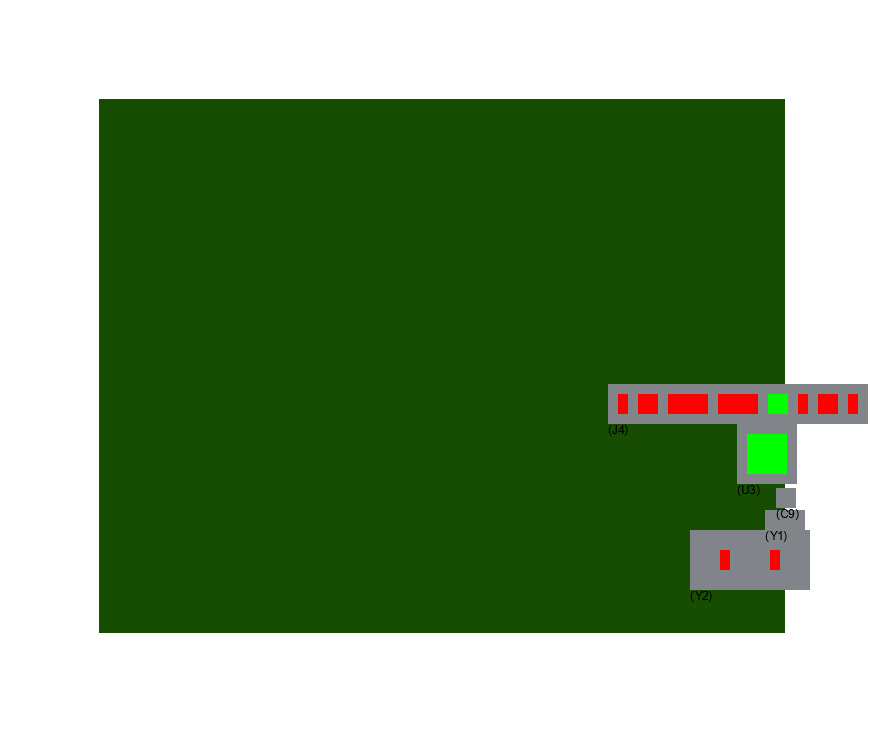
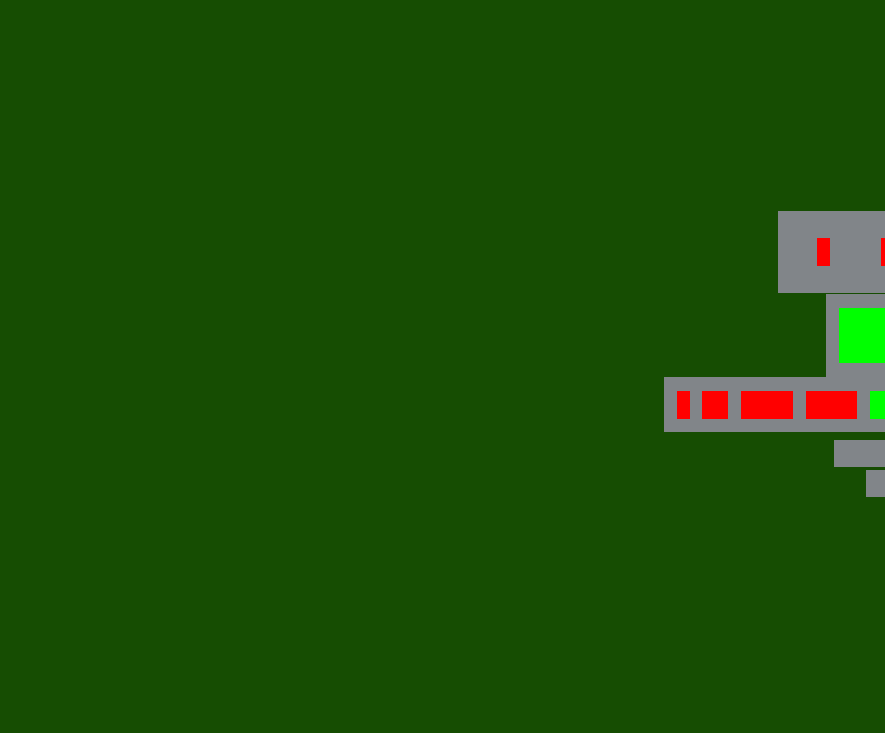
no warnings!

diff --git a/pcb-layout/src/main.rs b/pcb-layout/src/main.rs
@@ -1,5 +1,5 @@
 mod plcmnt;
-use plcmnt::{hpwl, is_valid, placement_area, Bbox, Component, Pin, Placement};
+use plcmnt::{hpwl, is_valid, placement_area, Bbox, Component, Placement};
 mod kicad_parse;
 use colored::Colorize;
 use kicad_parse::parse_file;
@@ -7,6 +7,8 @@ use plotters::coord::types::RangedCoordf64;
 use plotters::prelude::*;
 use rand::prelude::*;
 use std::time::Instant;
+use std::collections::BTreeMap;
+
 fn random_rotation() -> i32 {
     // Get an RNG:
     let mut rng = rand::rng();
@@ -16,7 +18,7 @@ fn random_rotation() -> i32 {
 }
 struct Individual {
     comp_list: Vec<Component>,
-    pl_area: Bbox,
+    pl_area: Bbox,  
 }
 
 impl Individual {
@@ -26,7 +28,7 @@ impl Individual {
             pl_area: pl.placement_area,
         }
     }
-    fn plot(&self, output_path: &str) {
+    fn plot(&self, output_path: &str, net_map: &BTreeMap<i32, String> ) {
         let padding = 10.0;
         let scale = 10.0;
 
@@ -39,89 +41,26 @@ impl Individual {
         )
         .into_drawing_area();
         let backend = backend.apply_coord_spec(Cartesian2d::<RangedCoordf64, RangedCoordf64>::new(
-            0f64..pl_width,
-            0f64..pl_height,
+            0f64..self.pl_area.get_width_fl(),
+            0f64..self.pl_area.get_height_fl(),
             (0..pl_width.floor() as i32, 0..pl_height.round() as i32),
         ));
         let _ = backend.fill(&WHITE);
-        let get_rect = |comp: &Component| {
-            //let x =
-            let ul: (f64, f64) = (
-                (comp.bbox.x1 + padding) * scale,
-                (comp.bbox.y2 + padding) * scale,
-            );
-            let br: (f64, f64) = (
-                (comp.bbox.x2 + padding) * scale,
-                (comp.bbox.y1 + padding) * scale,
-            );
-            
-            Rectangle::new(
-                [ul, br],
-                ShapeStyle::from(&RGBColor(129, 133, 137)).filled(),
-            )
-            
-        };
-        let get_pin_rect = |comp: &Pin| {
-            //let x =
-            let ul: (f64, f64) = (
-                (comp.bbox.x1 + padding) * scale,
-                (comp.bbox.y2 + padding) * scale,
-            );
-            let br: (f64, f64) = (
-                (comp.bbox.x2 + padding) * scale,
-                (comp.bbox.y1 + padding) * scale,
-            );
-            
-            if comp.net == 11 {
-                Rectangle::new([ul, br], ShapeStyle::from(&GREEN).filled())
-            } else {
-                Rectangle::new([ul, br], ShapeStyle::from(&RED).filled())
-            }
-            
-        };
-        let label_pin = |comp: &Pin| {
-            let ul: (f64, f64) = (
-                (comp.bbox.x1 + padding) * scale,
-                (comp.bbox.y2 + padding) * scale,
-            );
-            Text::new(
-                format!("({})", comp.refdes),
-                ul,
-                ("sans-serif", 15.0).into_font(),
-            )
-        };
-        let label_comp = |comp: &Component| {
-            let ul: (f64, f64) = (
-                (comp.bbox.x1 + padding) * scale,
-                (comp.bbox.y2 + padding) * scale,
-            );
-            Text::new(
-                format!("({})", comp.refdes),
-                ul,
-                ("sans-serif", 15.0).into_font(),
-            )
-        };
-        let plot_pcb = |area: &Bbox| {
-            let ul: (f64, f64) = (
-                (area.x1 + padding) * scale,
-                (area.y2 + padding) * scale,
-            );
-            let br: (f64, f64) = (
-                (area.x2 + padding) * scale,
-                (area.y1 + padding) * scale,
-            );
-            //let ee: EmptyElement<(f64, f64), _> = EmptyElement::at(ul) ;
-    Rectangle::new([ul, br], ShapeStyle::from(&RGBColor(22, 77, 2)).filled())
-
-        };
+        
         //plot pcb
-        let _ = backend.draw(&plot_pcb(&self.pl_area));
+        let _ = backend.draw(&self.pl_area.plot(&RGBColor(22, 77, 2)));
         
         for i in &self.comp_list {
-            let _ =  backend.draw(&label_comp(i));
-            let _ = backend.draw(&get_rect(i));
+            //let _ =  backend.draw(&label_comp(i));
+            let _ = backend.draw(&i.bbox.plot(&RGBColor(129, 133, 137)));
             for p in &i.pins {
-                let _ = backend.draw(&get_pin_rect(p));
+                let net_name = net_map.get(&p.net).unwrap();
+                if net_name.to_lowercase() =="gnd"{
+                    let _ = backend.draw(&p.bbox.plot(&GREEN));
+                }else{
+                    let _ = backend.draw(&p.bbox.plot(&RED));
+                    
+                }
                 //backend.draw(&label_pin(p));
             }
         }
@@ -356,7 +295,7 @@ fn tester(pl:Placement){
     
     let pl_2 = pl.clone();
     let  id2 = Individual::new(pl_2);
-    id2.plot("0.png");
+    id2.plot("0.png", &pl.net_map);
     let gen_mult = 1;
     let test_cases: Vec<(usize, i32)> = vec![(10, 10000 * gen_mult ), (20, 5000 * gen_mult), (50,2000 * gen_mult), (100,1000 * gen_mult), (200, 500 * gen_mult), (500,200 * gen_mult)];
     for i in test_cases{
@@ -376,7 +315,7 @@ fn tester(pl:Placement){
         // let backend = SVGBackend::new("output.svg", (800, 600));
         //backend.draw_rect((50, 50), (200, 150), &RED, true)?;
         let id = &mut population[0];
-        id.plot("0.png");
+        id.plot("0.png", &pl.net_map);
         println!("{}", format!("+++++++Test (Population Size: {} , Generations {}) +++++++", pop_size, i.1).green());
         println!("Original Score: {}", id.score());
         let now = Instant::now();
@@ -407,7 +346,7 @@ fn tester(pl:Placement){
         let id = &mut population[0];
         println!("New Score: {}", id.score());
 
-        id.plot(&format!("test-{}x{}.png", pop_size, i.1));
+        id.plot(&format!("test-{}x{}.png", pop_size, i.1), &pl.net_map);
         let elapsed_time = now.elapsed();
         println!("Test took {}.{} seconds.",elapsed_time.as_secs(), elapsed_time.subsec_millis());
         println!("![{}]({})",&format!("test-{}x{}.png", pop_size, i.1),&format!("test-{}x{}.png", pop_size, i.1) );
@@ -422,11 +361,17 @@ fn main() {
     pl.components.truncate(5);
     let mut pl2 = Placement{
         placement_area: pl.placement_area.clone(),
-        components: pl.components.clone()
+        components: pl.components.clone(),
+        net_map:pl.net_map.clone()
     };
     pl2.shift_placement(0.0, 0.0);
     //println!("{:?}", pl2);
-    tester(pl2);
-    //id.mutate();
-    //id.plot("tester.png");
+    let test = true;
+    if test{
+        tester(pl2);
+    }else{
+        let mut id = Individual::new(pl2);
+        id.mutate();
+        id.plot("tester.png", &pl.net_map);
+    }
 }

diff --git a/pcb-layout/src/kicad_parse.rs b/pcb-layout/src/kicad_parse.rs
@@ -1,8 +1,5 @@
 use crate::plcmnt;
-use colored::Colorize;
 use plcmnt::{Bbox, Component, Pin, Placement};
-use plotters::prelude::*;
-use rand::prelude::*;
 use std::collections::BTreeMap;
 
 use std::fs;
@@ -22,9 +19,9 @@ fn parse_kicad_line_to_floats(passed_str: &str) -> Option<(f64, f64)> {
 }
 pub fn parse_file() -> Placement {
     // --snip--
-    let file_path = "..\\demo\\demo.kicad_pcb";
-    let file_path = "..\\demo\\layout1.kicad_pcb";
-    let file_path = "..\\BeagleBone_Black.unrouted.kicad_pcb";
+    //let file_path = "..\\demo\\demo.kicad_pcb";
+    //let file_path = "..\\demo\\layout1.kicad_pcb";
+    //let file_path = "..\\BeagleBone_Black.unrouted.kicad_pcb";
     let file_path = "..\\arduino_kicad\\Arduino UNO.kicad_pcb";
     println!("In file {file_path}");
 
@@ -69,8 +66,8 @@ pub fn parse_file() -> Placement {
             net_map.insert(net_idx, net_name);
         }
         if line.starts_with("\t(footprint ") {
-            line = content_iter.next().unwrap();
-            line = content_iter.next().unwrap();
+            let _ = content_iter.next().unwrap();
+            let _ = content_iter.next().unwrap();
             let x_y_str = content_iter.next().unwrap().trim_end().replace(")", "");
             let x_y_vec: Vec<&str> = x_y_str.split(" ").collect();
             //println!("{:?}", x_y_vec);
@@ -151,7 +148,7 @@ pub fn parse_file() -> Placement {
             if !xs.is_empty() {
                 xs.sort_by(|a, b| a.partial_cmp(b).unwrap());
                 ys.sort_by(|a, b| a.partial_cmp(b).unwrap());
-                let mut comp_bbox = Bbox::new(xs[0], xs[xs.len() - 1], ys[0], ys[ys.len() - 1]);
+                let  comp_bbox = Bbox::new(xs[0], xs[xs.len() - 1], ys[0], ys[ys.len() - 1]);
                 let mut pin_vec: Vec<Pin> = Vec::new();
                 
                 //outer pin loop
@@ -270,7 +267,8 @@ pub fn parse_file() -> Placement {
 
     Placement {
         components: comp_vec,
-        placement_area: pl_area
+        placement_area: pl_area,
+        net_map:net_map
     }
     //println!("{:?}", net_map);
 }

diff --git a/pcb-layout/src/plcmnt.rs b/pcb-layout/src/plcmnt.rs
@@ -45,8 +45,18 @@ impl Bbox {
     pub fn get_height_fl(&self) -> f64 {
         (self.y1 - self.y2).abs()
     } 
-    pub fn plot(&self, color:&RGBColor){
-
+    pub fn plot(&self, color:&RGBColor) -> Rectangle<(f64, f64)> {
+        let ul: (f64, f64) = ( self.x1,self.y2 );
+        let br: (f64, f64) = (self.x2 ,self.y1 );
+        Rectangle::new([ul, br], ShapeStyle::from(color.filled()))
+    }
+    pub fn label_bbox(&self, label:String) -> Text<'_, (f64, f64), String>{
+        let ul: (f64, f64) = ( self.x1,self.y2 );
+        Text::new(
+            format!("({})", label ),
+            ul,
+            ("sans-serif", 15.0).into_font(),
+        )
     }
     pub fn is_out_of_bounds(&self, outer: &Bbox) -> bool {
         self.x1 < outer.x1 || self.x2 > outer.x2 || self.y1 < outer.y1 || self.y2 > outer.y2
@@ -151,6 +161,7 @@ impl Bbox {
 pub struct Placement {
     pub components: Vec<Component>,
     pub placement_area: Bbox,
+    pub net_map:  BTreeMap<i32, String>
 }
 #[derive(Debug, Clone)]
 pub struct Pin {
